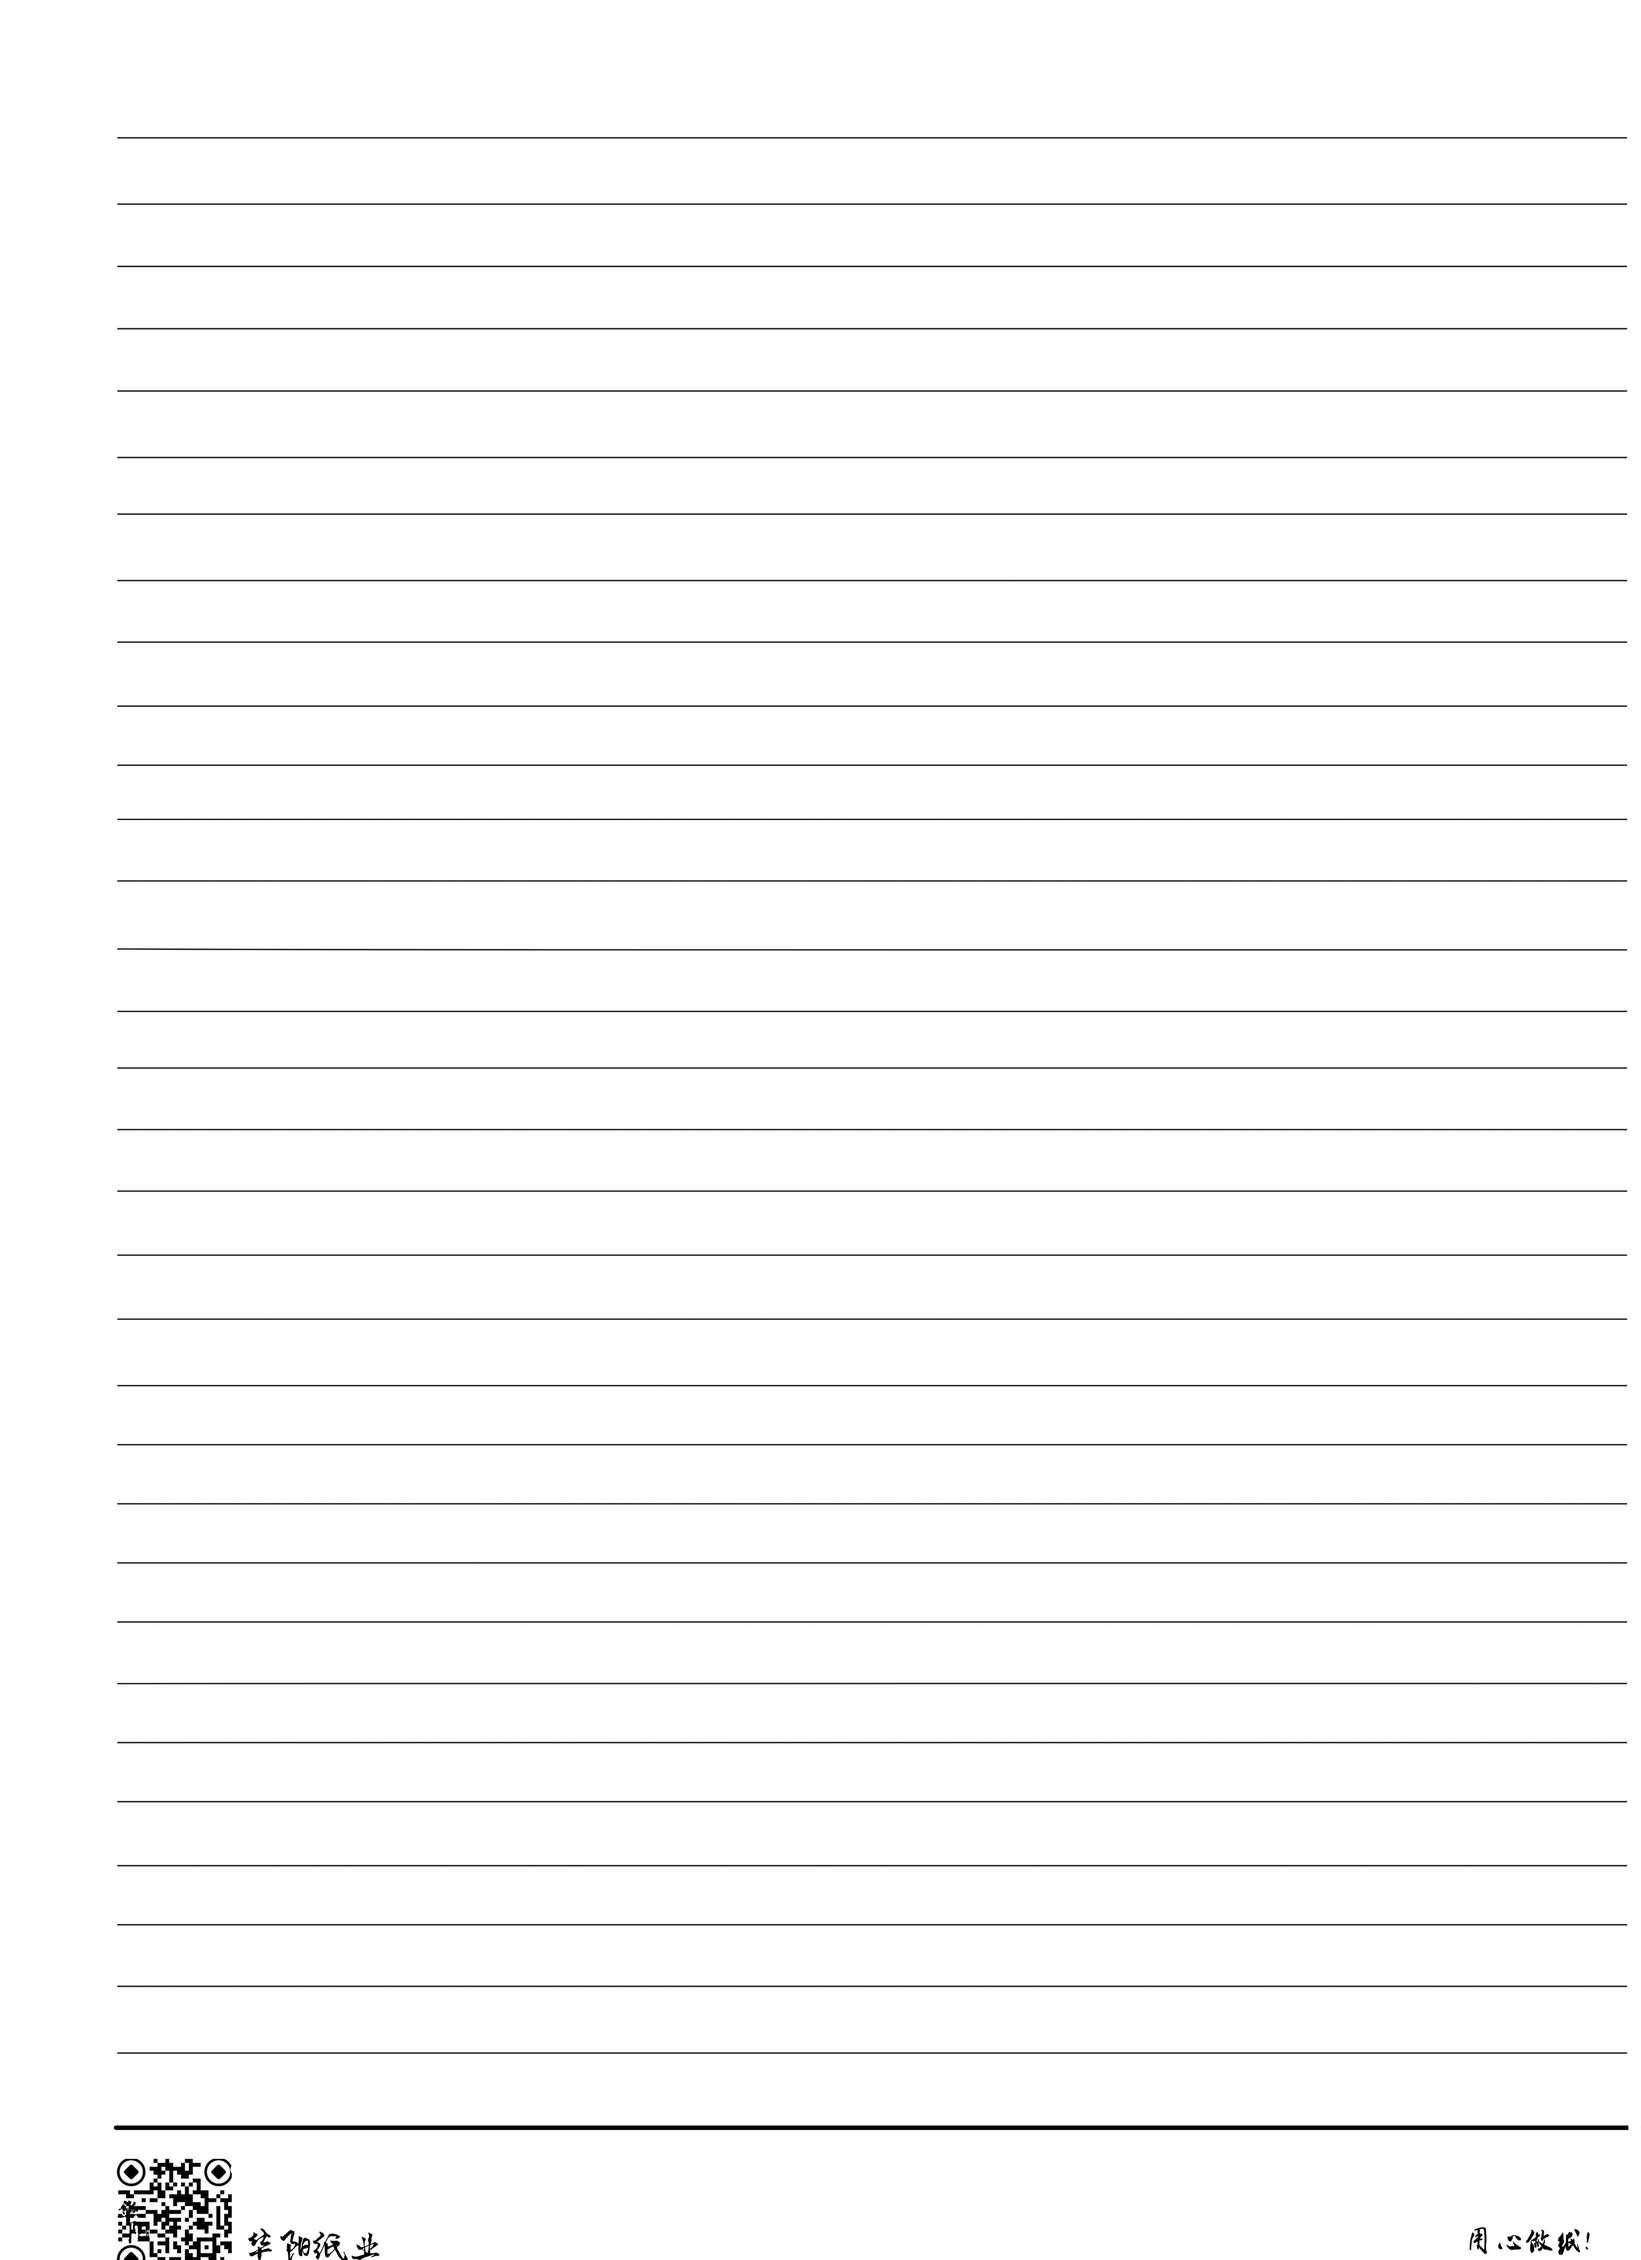
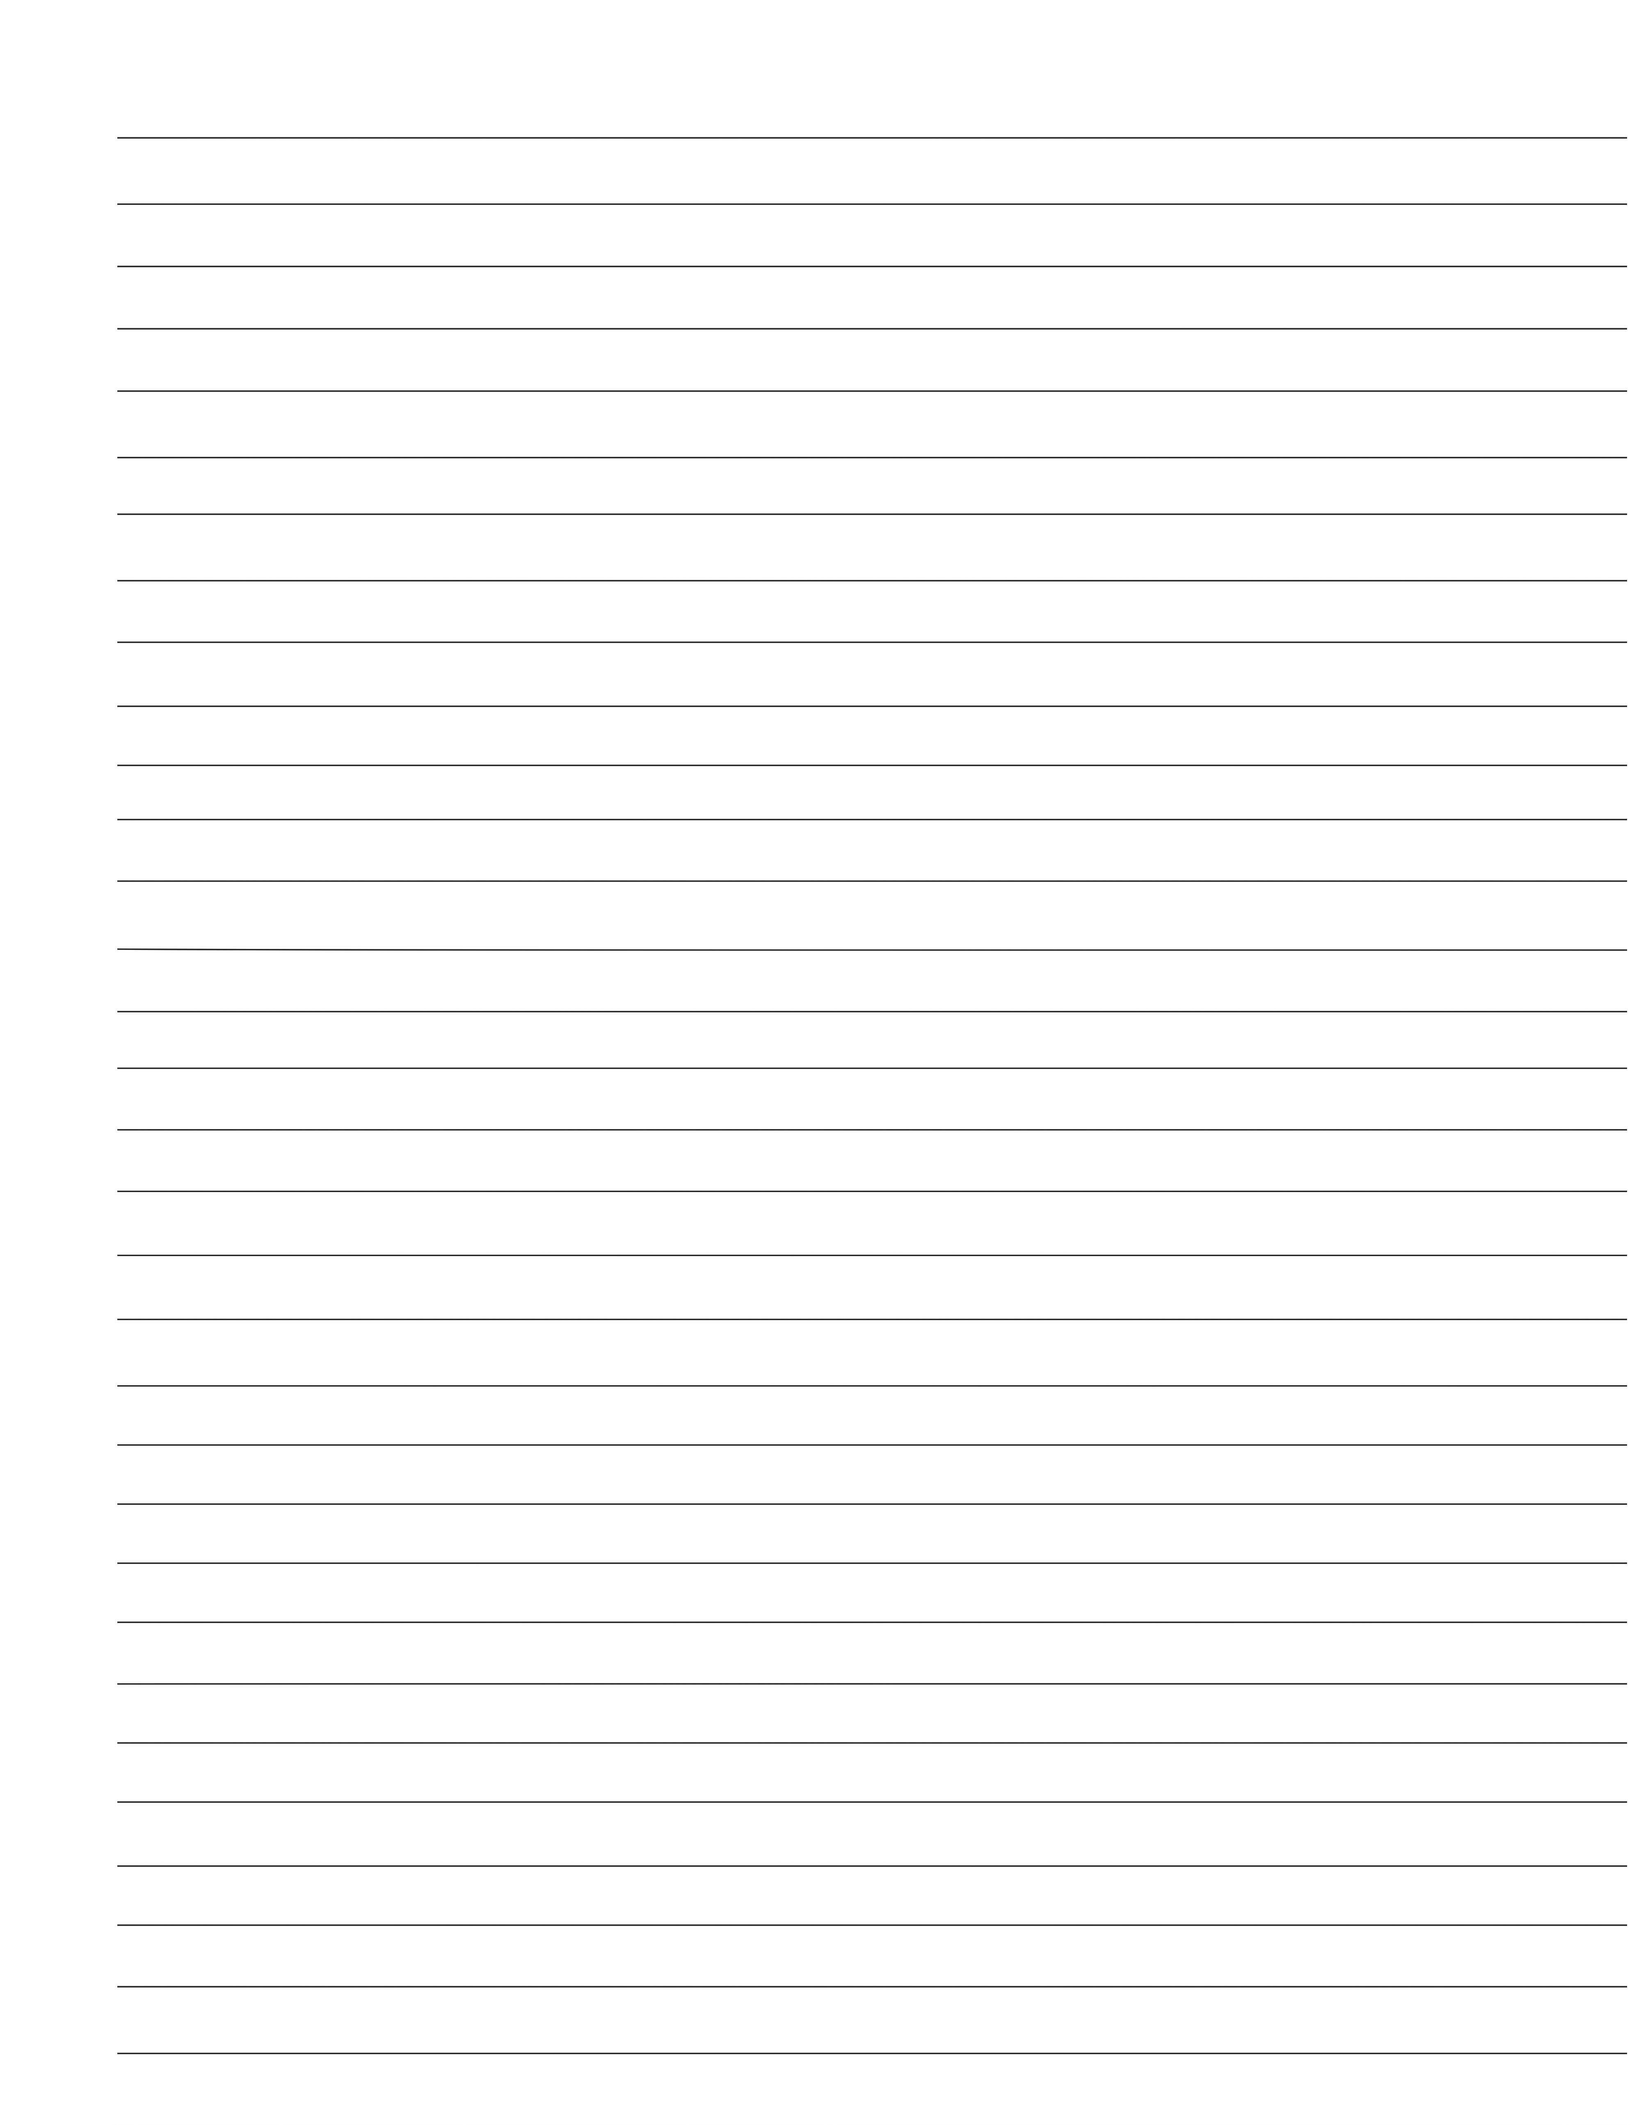
fix: crop QR code from A4 notebook background (remove bottom 330px)

Changed region(s): [[0.0625, 0.933, 0.9688, 1.0]]

diff --git a/index.html b/index.html
@@ -380,7 +380,7 @@ const BUILT_IN_FONTS = [
 ];
 const BUILT_IN_BACKGROUNDS = [
   { name: '纯白', path: null },
-  { name: 'A4本子', path: '背景/A4本子.jpg', lines: { firstY: 336, gap: 150, imgH: 5507, marginLeft: 286, imgW: 4000 } },
+  { name: 'A4本子', path: '背景/A4本子.jpg', lines: { firstY: 336, gap: 150, imgH: 5177, marginLeft: 286, imgW: 4000 } },
   { name: 'A4白纸', path: '背景/A4纯白.jpg' },
   { name: '发黄条纸', path: '背景/发黄 条纸.jpg', lines: { firstY: 397, gap: 227, imgH: 5940, marginLeft: 0, imgW: 4200 } },
   { name: '发黄条纸2', path: '背景/发黄 条纸2.jpg', lines: { firstY: 407, gap: 363, imgH: 5940, marginLeft: 17, imgW: 4200 } },
